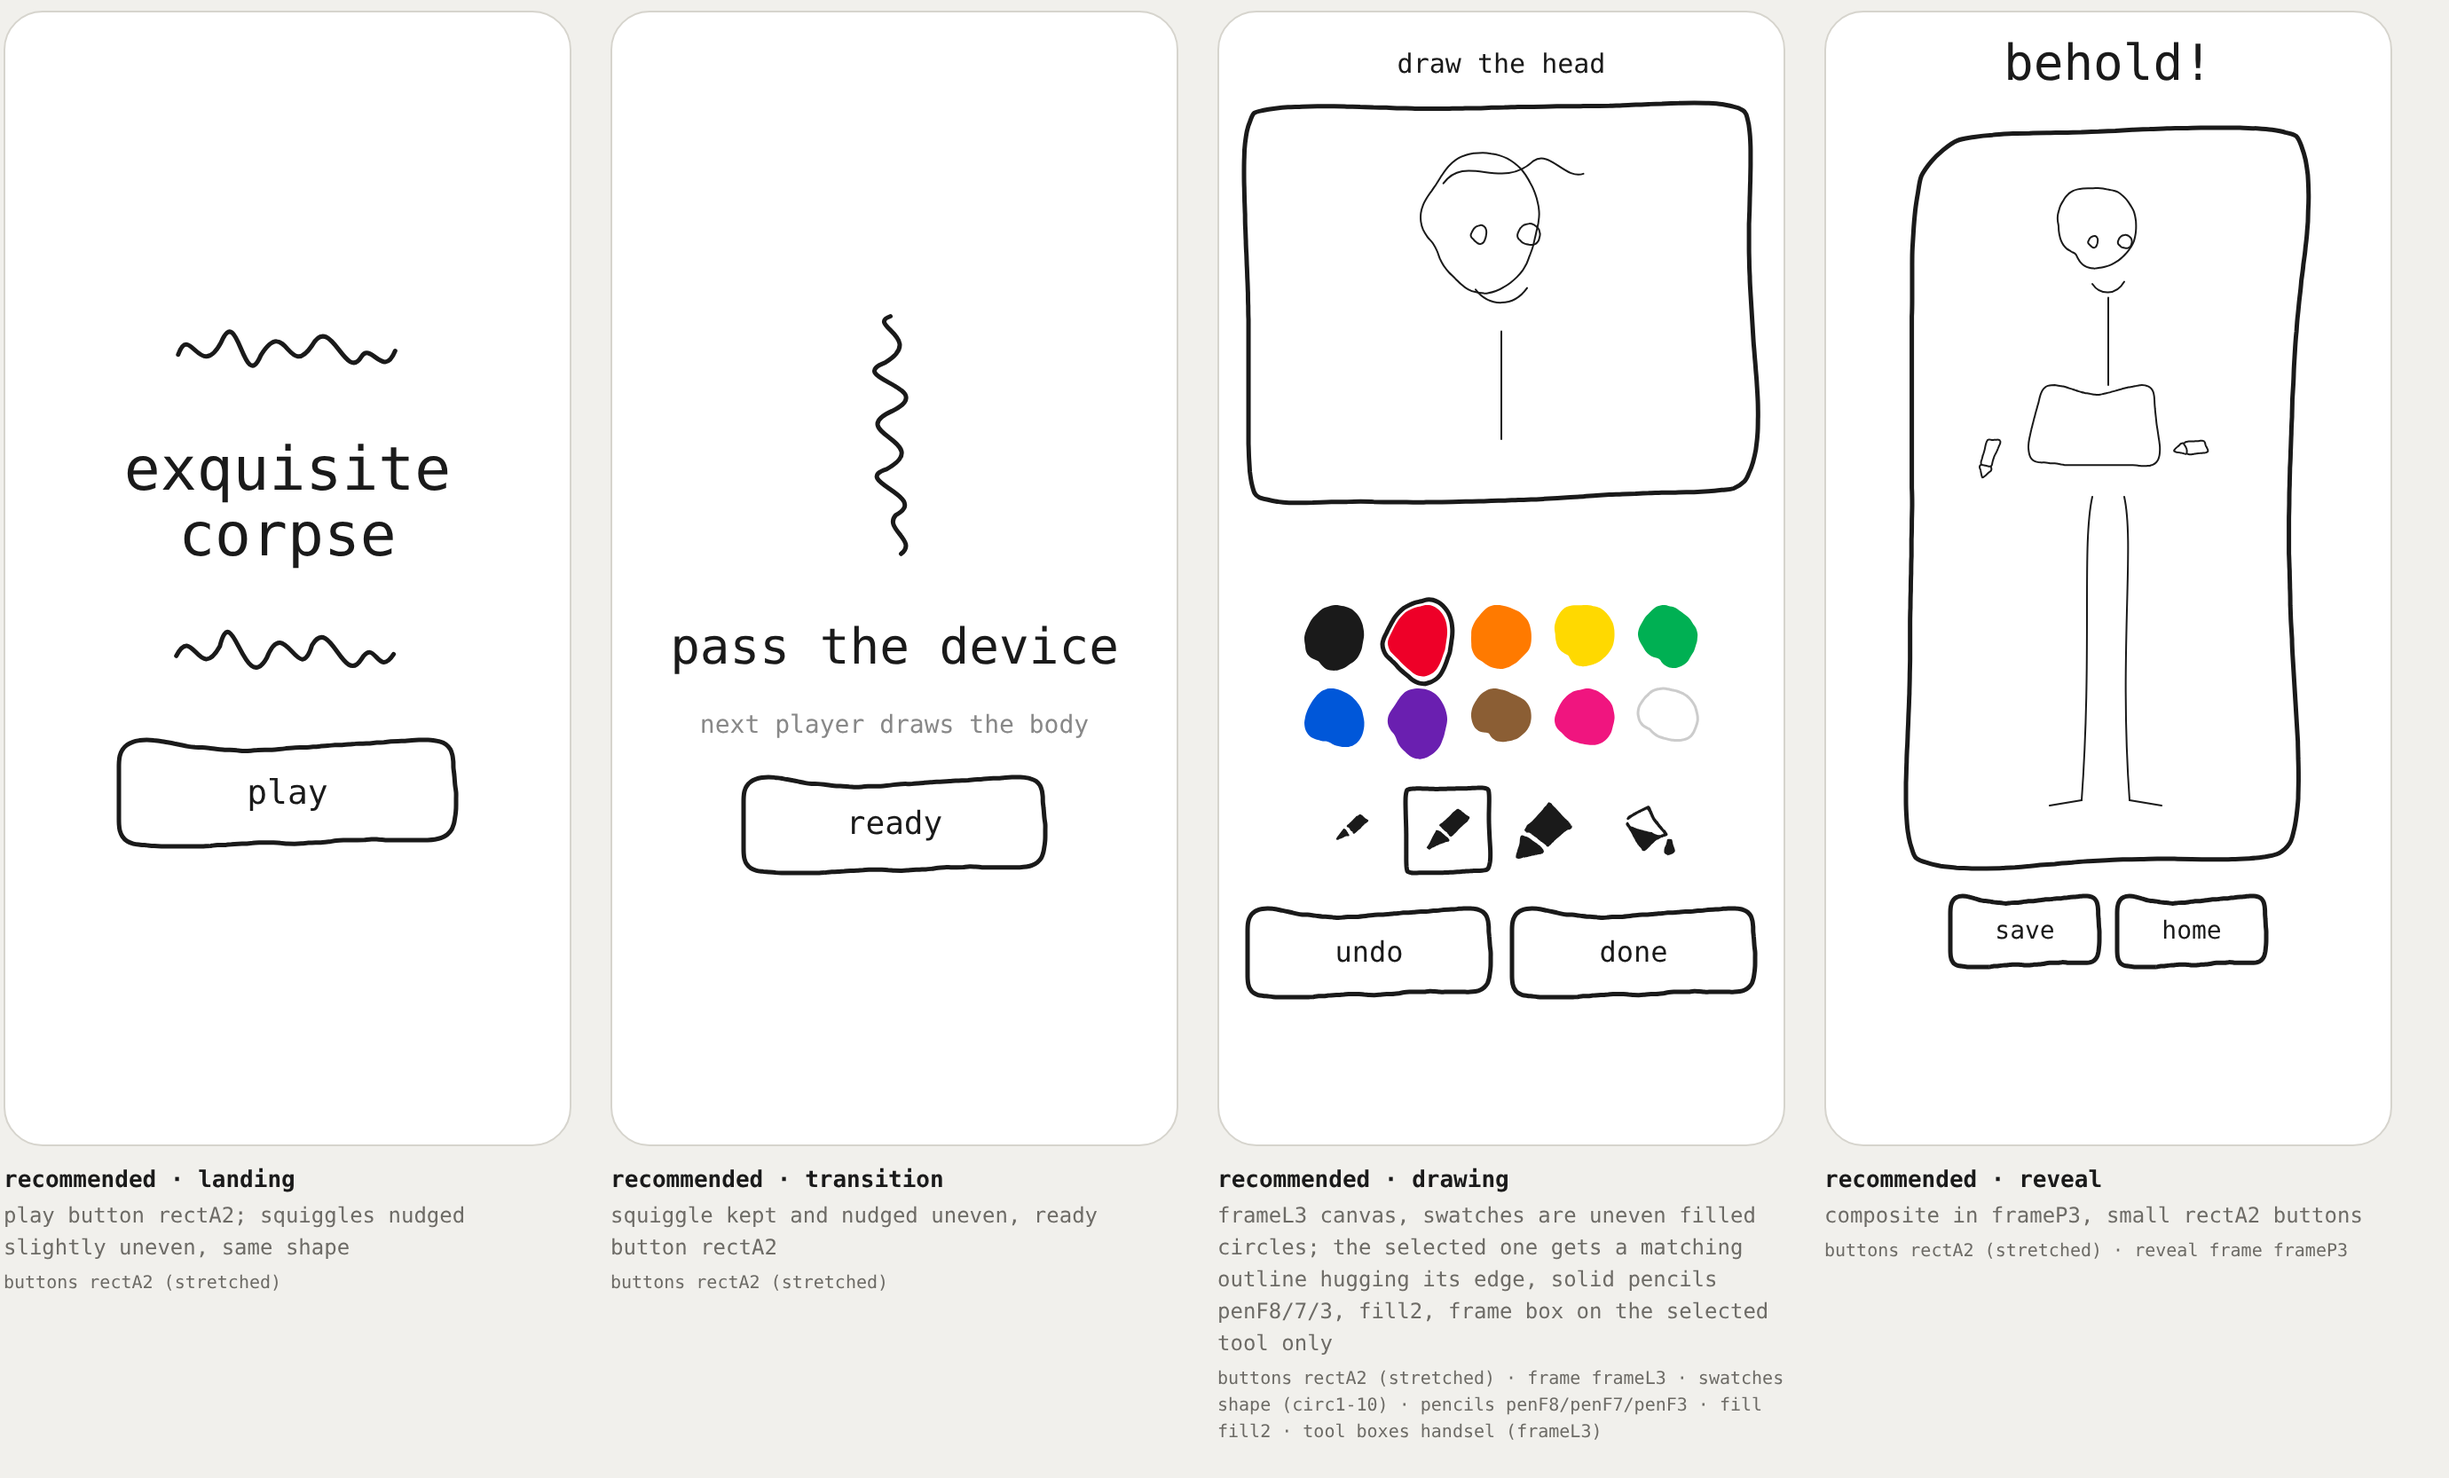
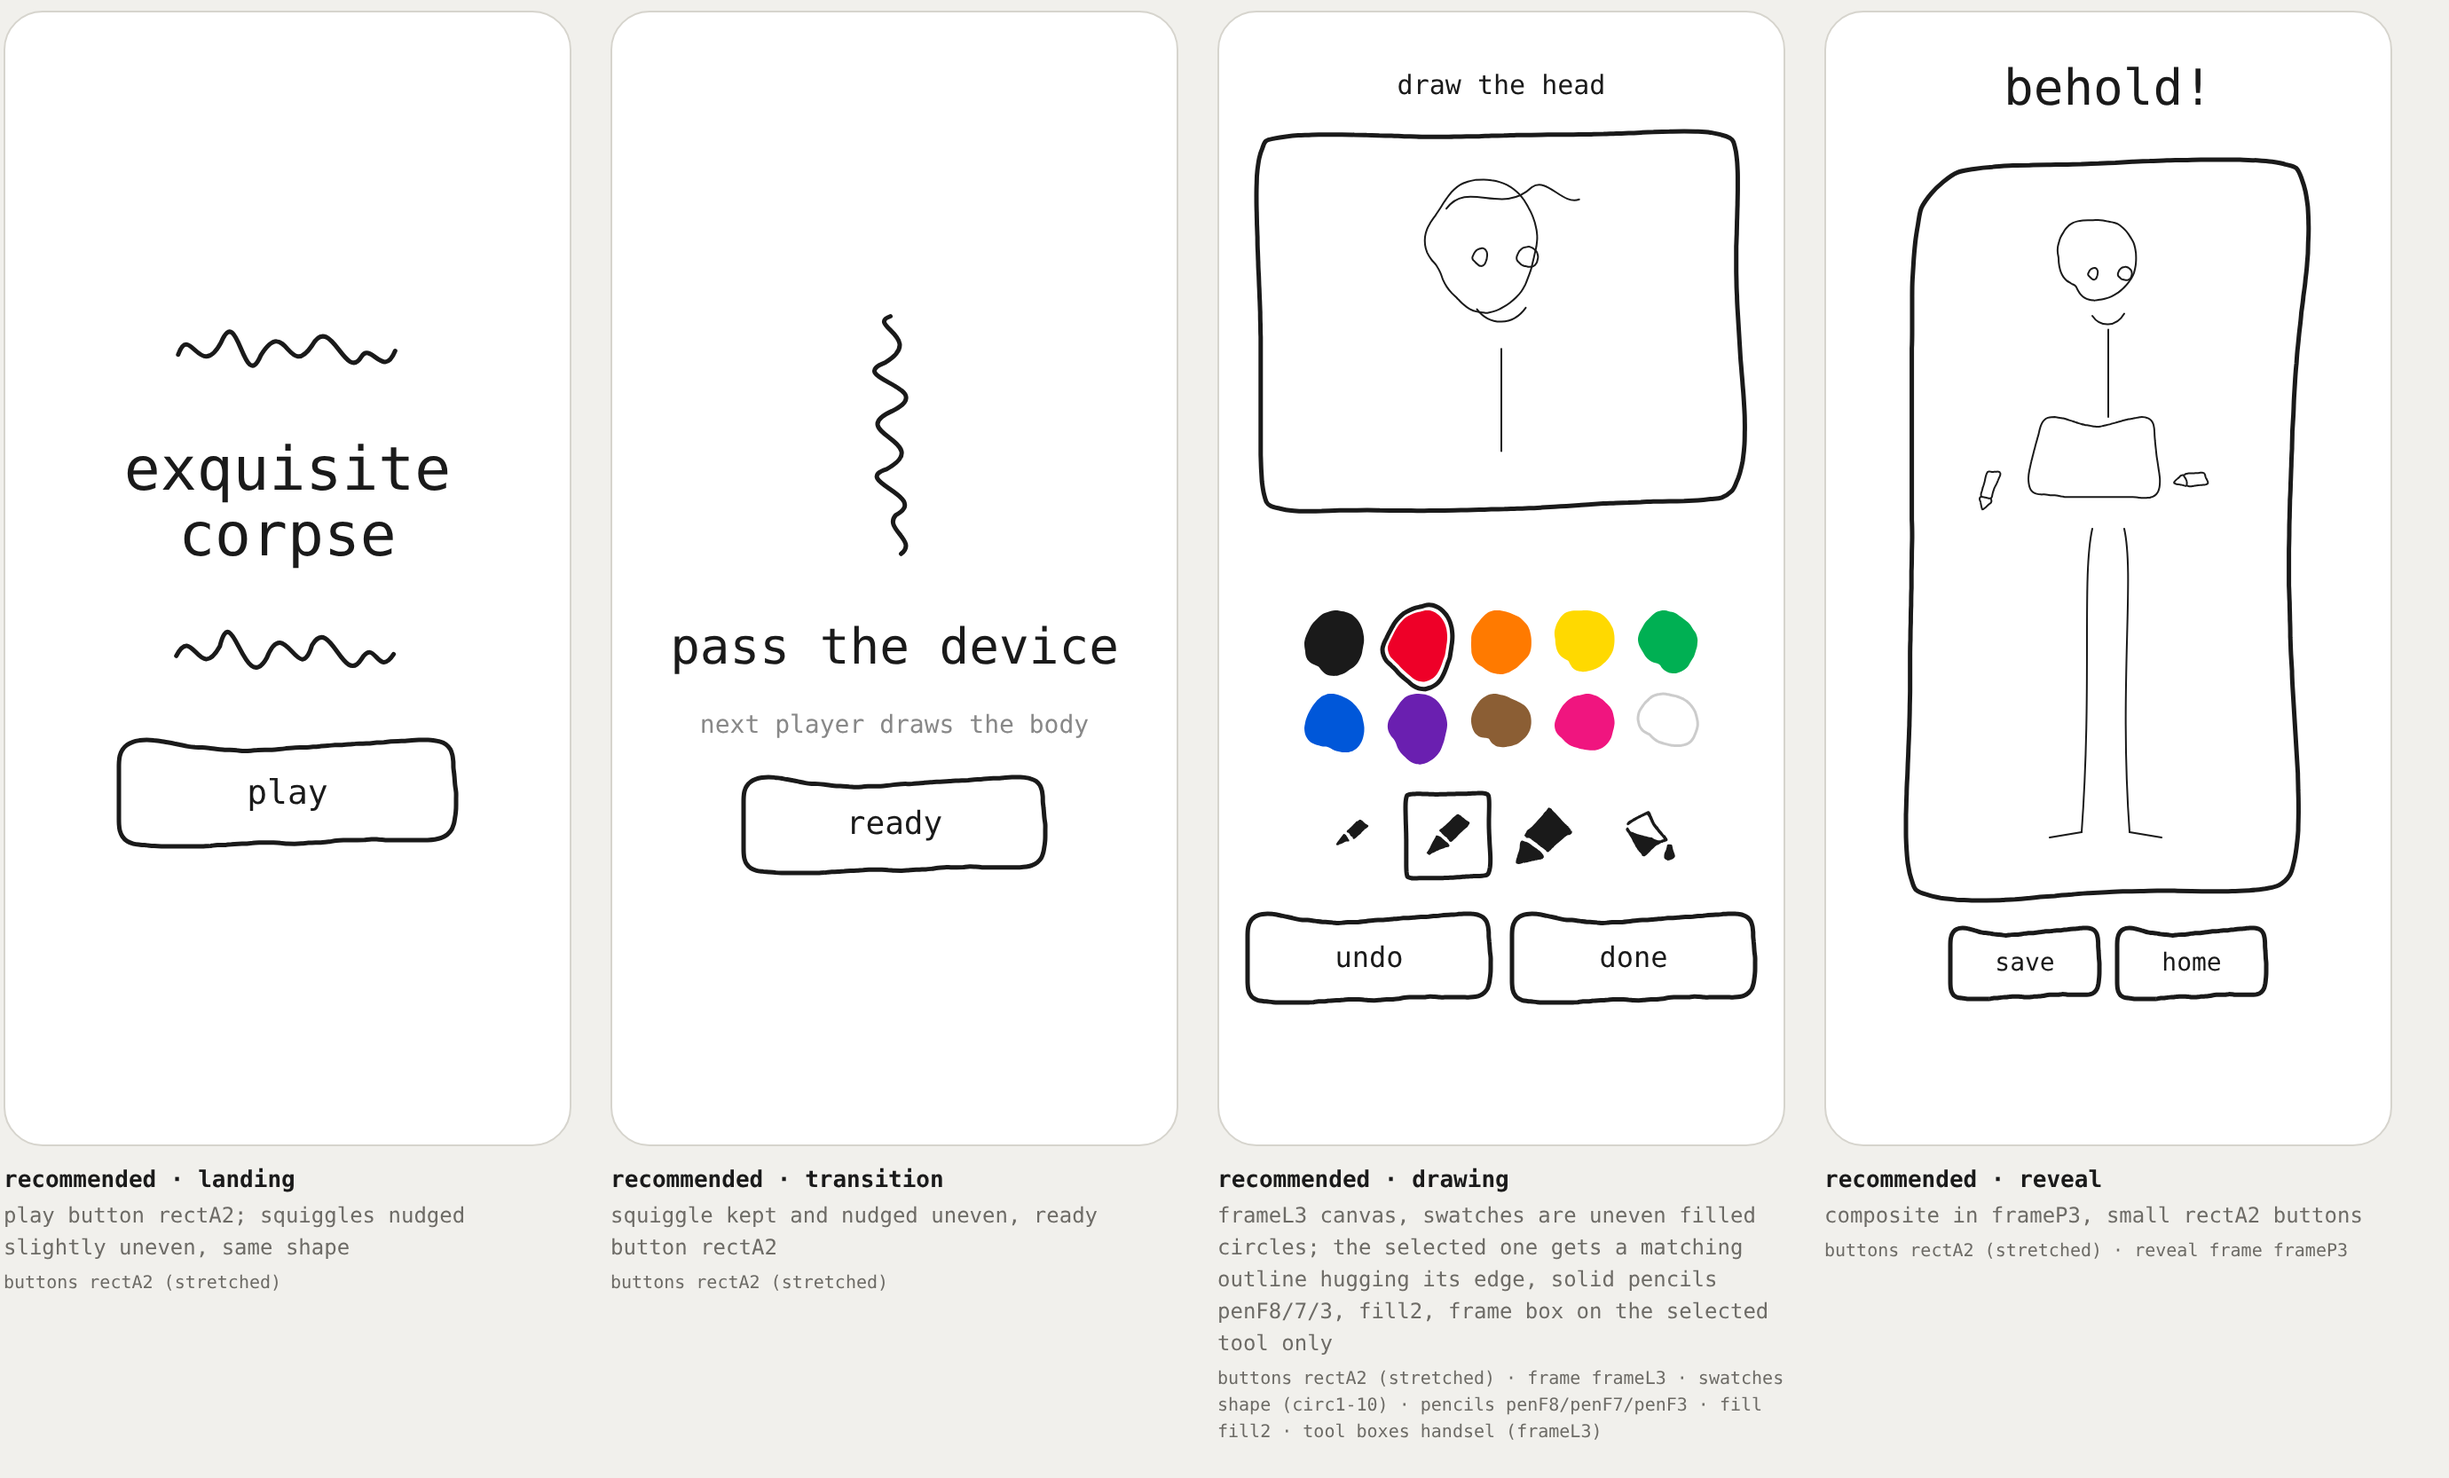
Mockups: more headroom above headers and boxes, narrower drawing box
Claude-Session: https://claude.ai/code/session_01ETmQE6VvJusXP7VaRgFzgM

diff --git a/mockups/index.html b/mockups/index.html
@@ -67,8 +67,8 @@ button:focus-visible,select:focus-visible,input:focus-visible{outline:2px solid 
 .hbtn.inv>span{color:#fff}
 
 /* drawing screen */
-.dhead{font-size:15px;padding:18px 0 20px;text-align:center;width:100%}
-.canvas{position:relative;width:calc(100% - 14px);aspect-ratio:600/420;max-width:100%}
+.dhead{font-size:15px;padding:30px 0 24px;text-align:center;width:100%}
+.canvas{position:relative;width:calc(100% - 28px);aspect-ratio:600/420;max-width:100%}
 .canvas .cur{position:absolute;inset:0;border:2px solid #1a1a1a;border-radius:4px}
 .canvas>svg.frame{position:absolute;width:auto;height:auto}
 .canvas .art{position:absolute;inset:0;width:100%;height:100%}
@@ -106,8 +106,8 @@ button:focus-visible,select:focus-visible,input:focus-visible{outline:2px solid 
 .acts>*{flex:1}
 
 /* reveal */
-.rv{padding-top:14px;gap:12px}
-.comp{position:relative;width:200px;aspect-ratio:600/1210;margin-top:18px}
+.rv{padding-top:28px;gap:12px}
+.comp{position:relative;width:200px;aspect-ratio:600/1210;margin-top:22px}
 .comp .cur{position:absolute;inset:0;border:2px solid #1a1a1a;border-radius:4px}
 .comp>svg.frame{position:absolute;width:auto;height:auto}
 .comp .art{position:absolute;inset:0;width:100%;height:100%}
